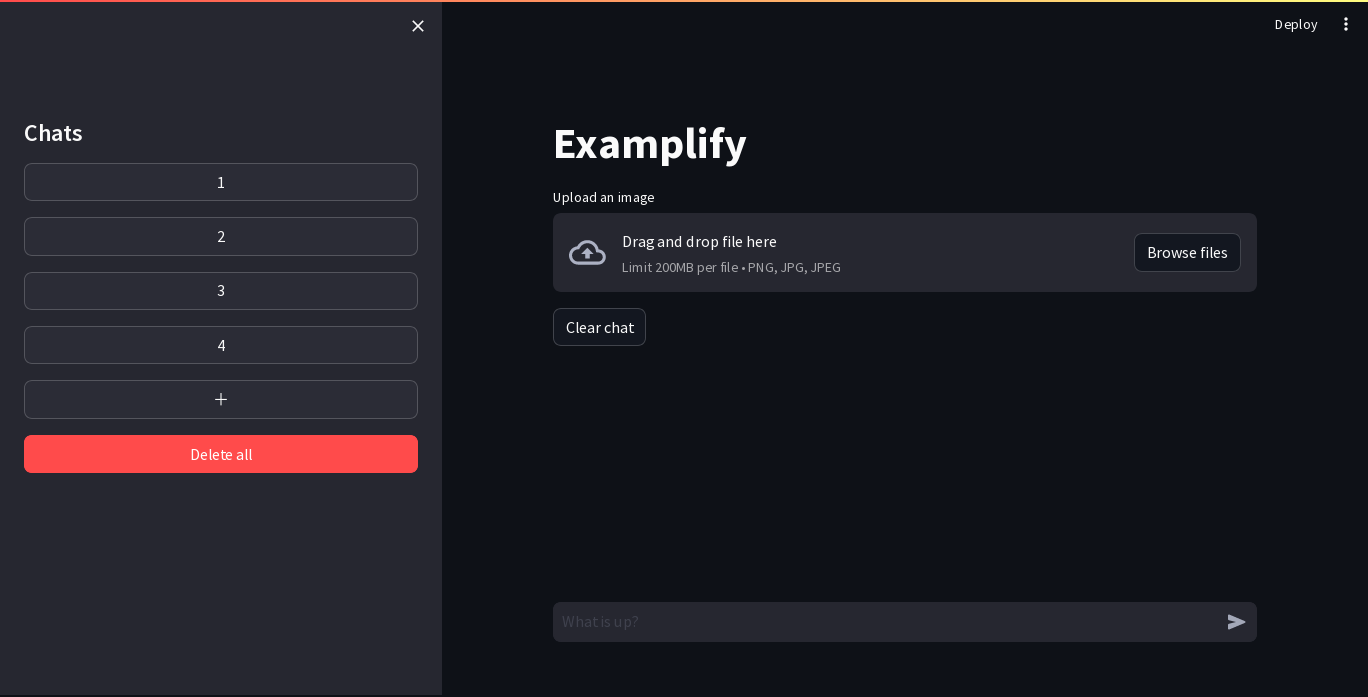
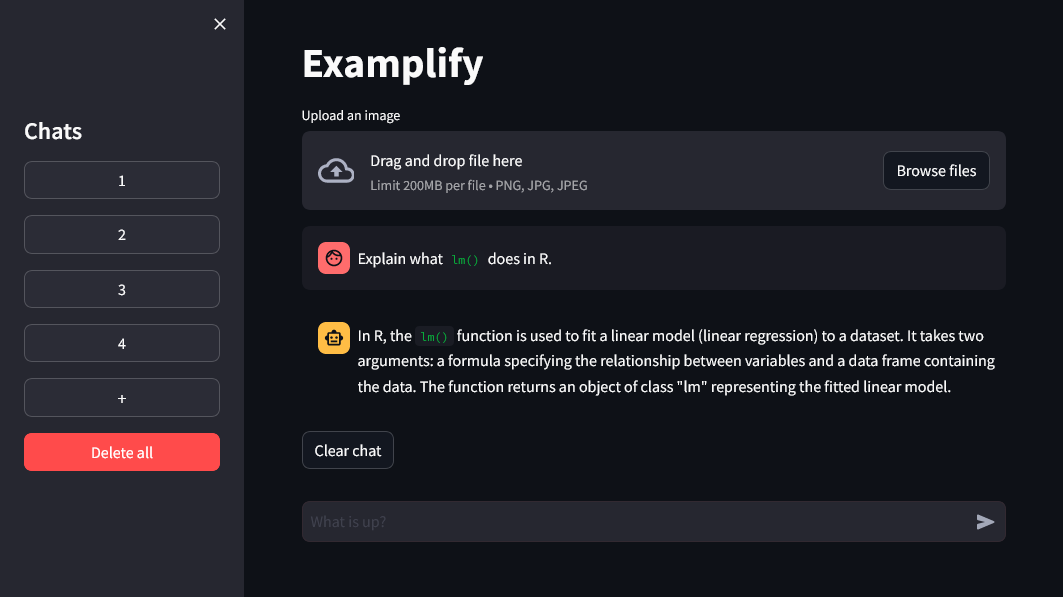
feat: remove red bar

diff --git a/app/__init__.py b/app/__init__.py
@@ -1,3 +1,5 @@
+from streamlit import markdown
+
 from app.api import Examplify
 from app.components import render_chat, render_sidebar
 from app.helpers import SESSION_STATE
@@ -9,6 +11,8 @@ def run():
     -------
     the Streamlit entrypoint
     """
+    markdown('<style>header { visibility: hidden; }</style>', unsafe_allow_html=True)
+
     if 'chats' not in SESSION_STATE:
         SESSION_STATE['chats'] = { 1: [] }
 
